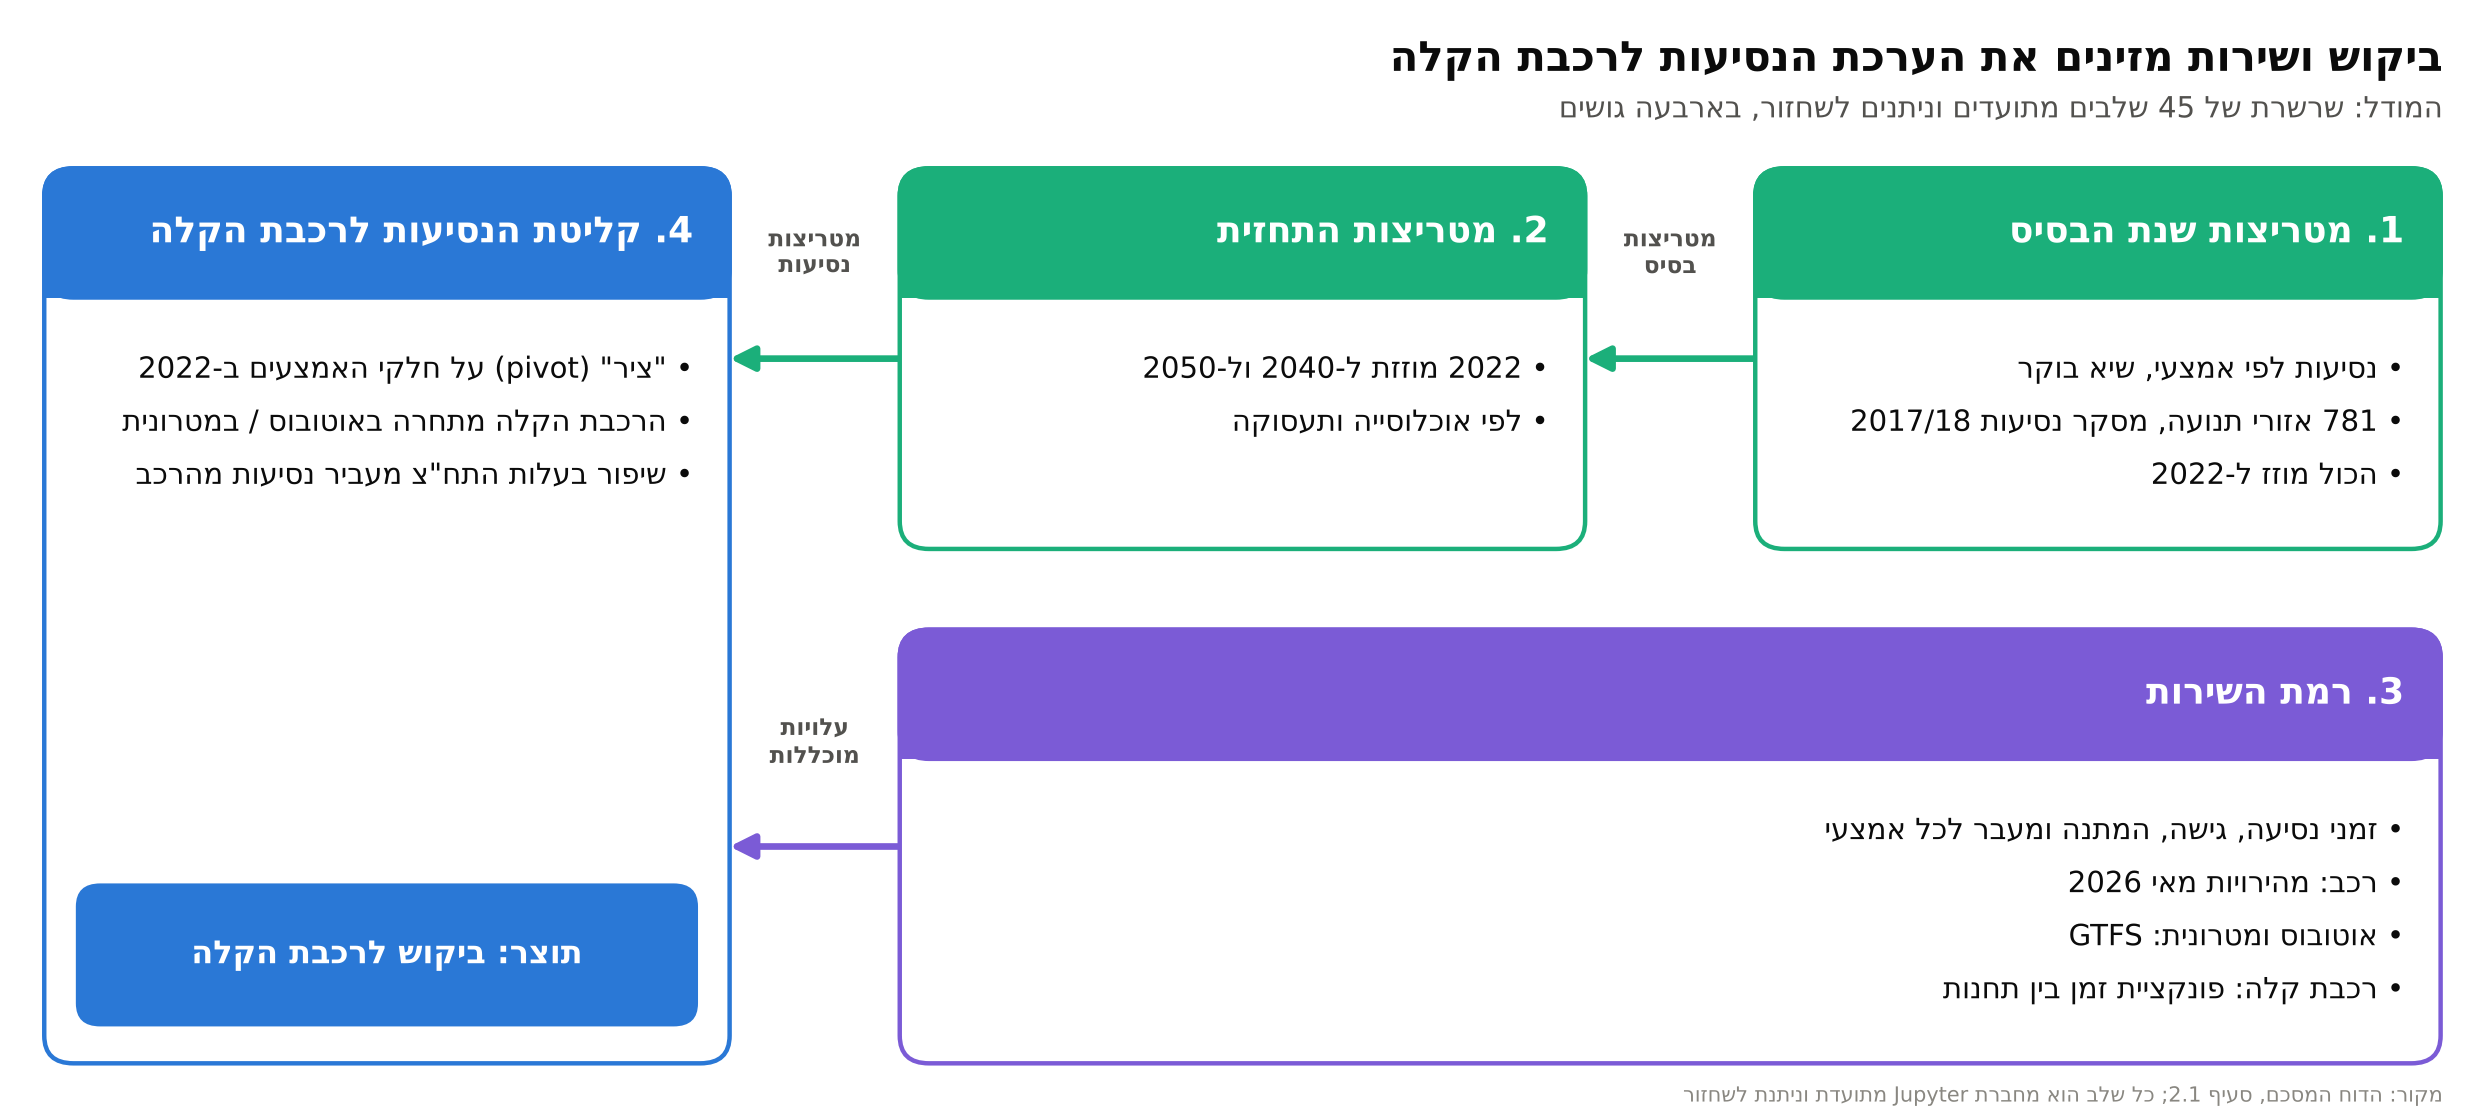
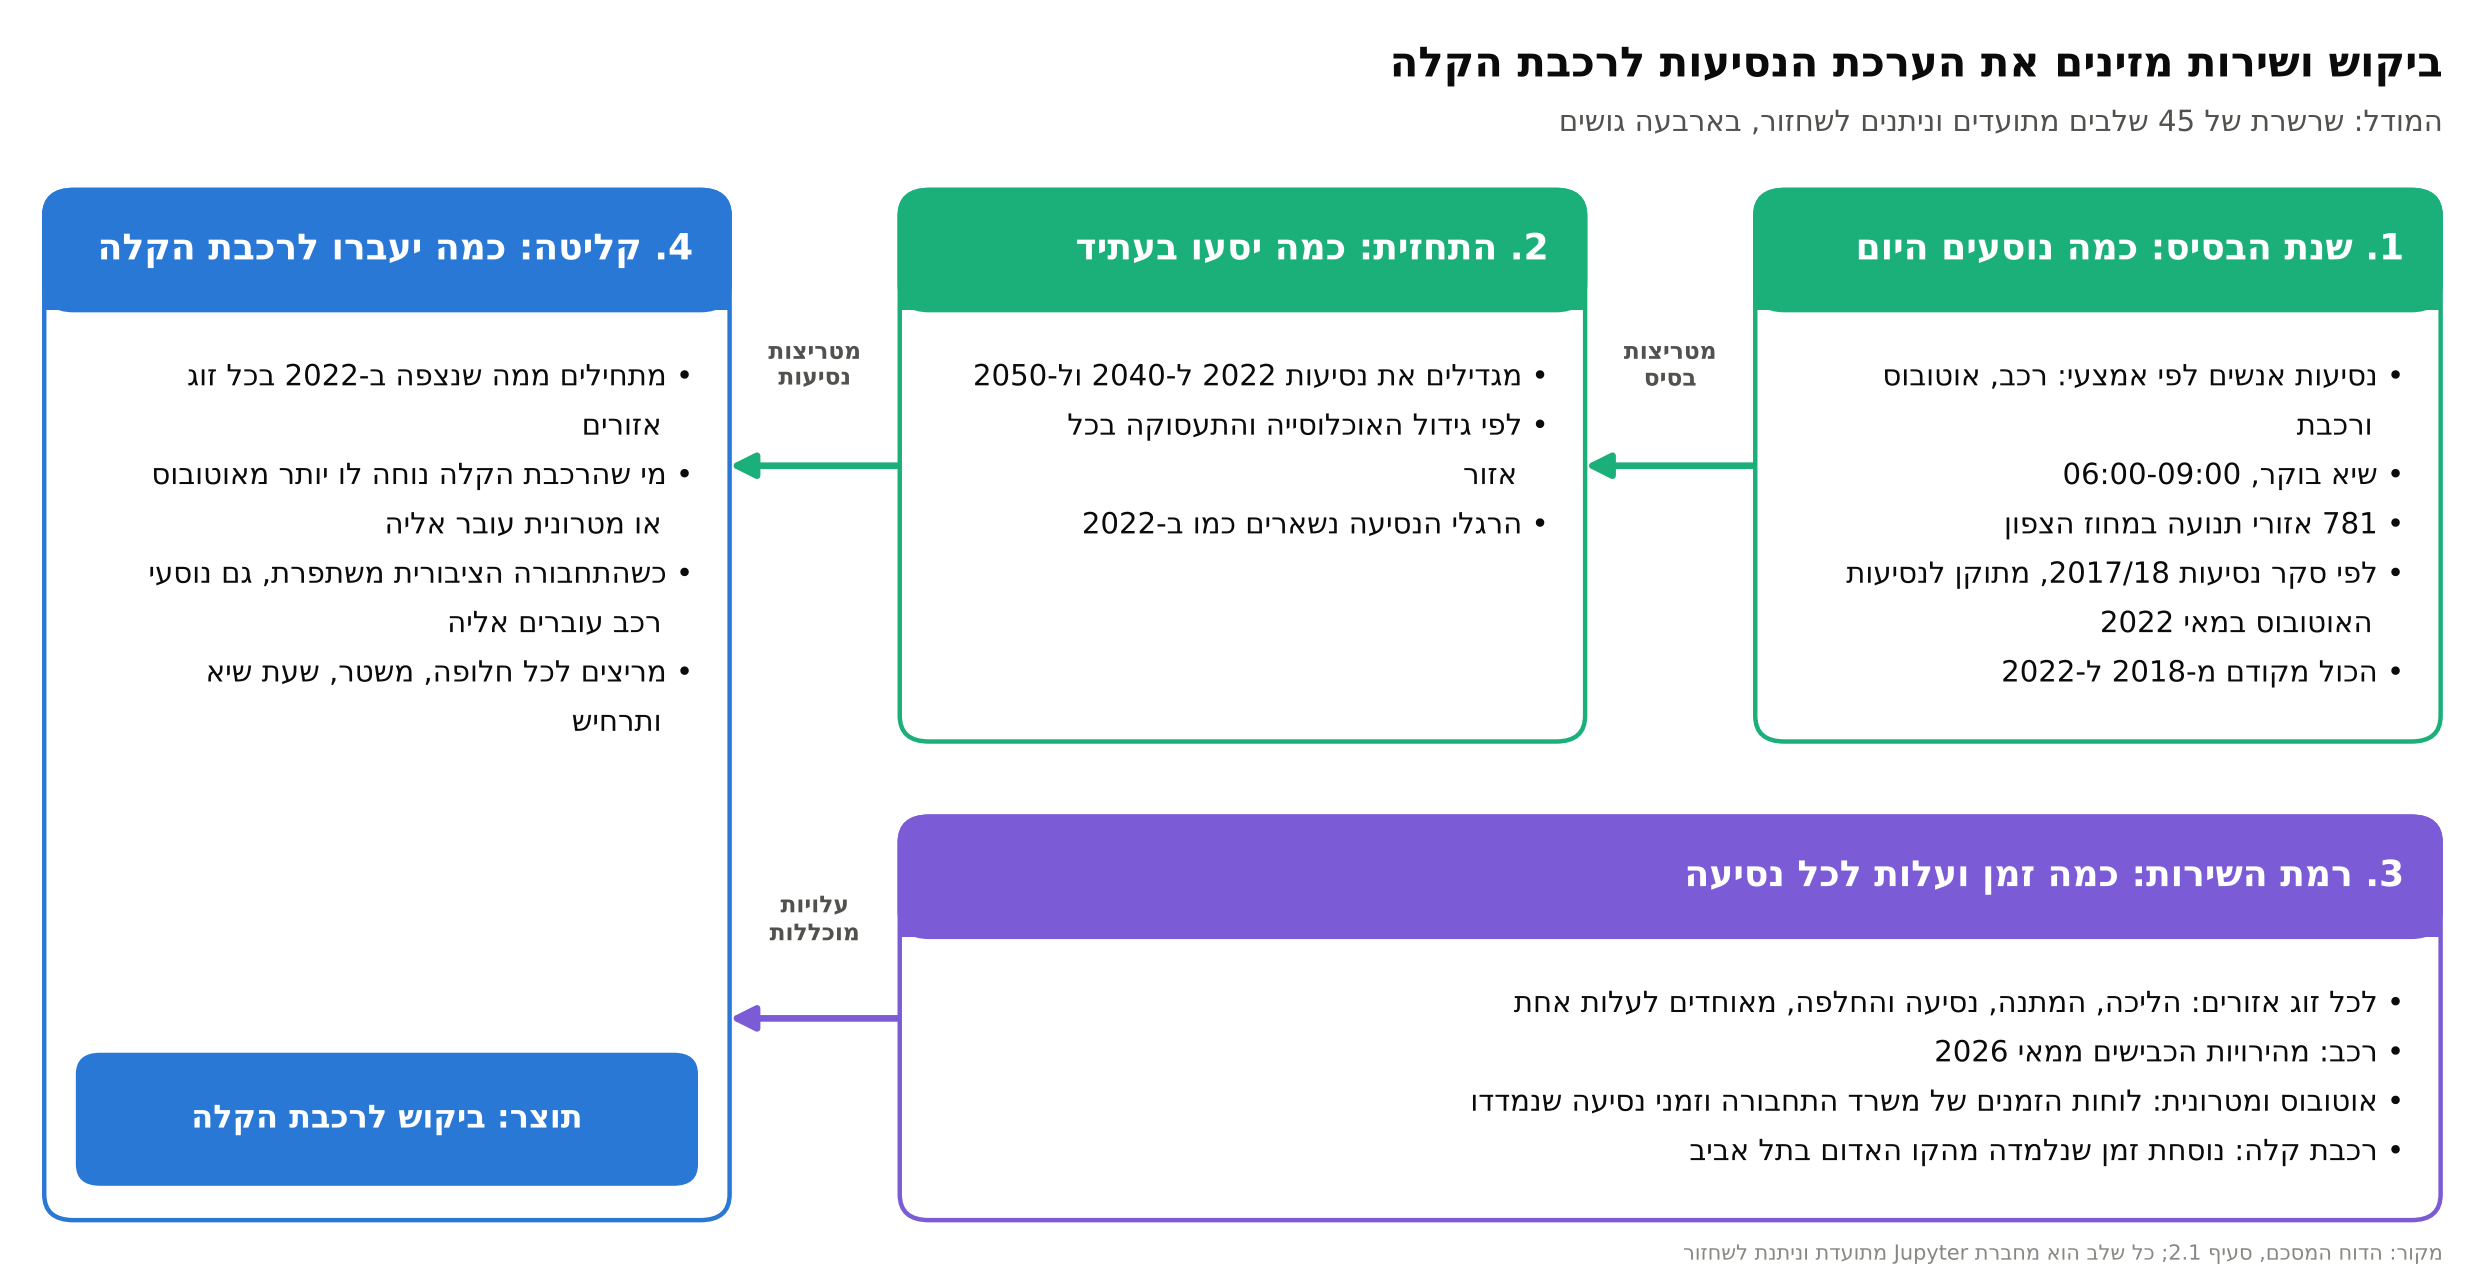
Fig 3: plain-Hebrew model-structure text
Claude-Session: https://claude.ai/code/session_01YMtsRtmFA5oisZptTurQGN

diff --git a/tools/build_report_figures.py b/tools/build_report_figures.py
@@ -93,22 +93,26 @@ from matplotlib.patches import FancyBboxPatch, FancyArrowPatch
 
 # ranges use a hyphen, not an en dash: an en dash splits the number run in right-to-left text and flips the range
 BLOCKS = {
-    'base': dict(color=S.AQUA, num='1', title='מטריצות שנת הבסיס', wrap=44, bullets=[
-        'נסיעות לפי אמצעי, שיא בוקר',
-        '781 אזורי תנועה, מסקר נסיעות 2017/18',
-        'הכול מוזז ל-2022']),
-    'forecast': dict(color=S.AQUA, num='2', title='מטריצות התחזית', wrap=44, bullets=[
-        '2022 מוזזת ל-2040 ול-2050',
-        'לפי אוכלוסייה ותעסוקה']),
-    'los': dict(color=S.PURPLE, num='3', title='רמת השירות', wrap=90, bullets=[
-        'זמני נסיעה, גישה, המתנה ומעבר לכל אמצעי',
-        'רכב: מהירויות מאי 2026',
-        'אוטובוס ומטרונית: GTFS',
-        'רכבת קלה: פונקציית זמן בין תחנות']),
-    'pivot': dict(color=S.BLUE, num='4', title='קליטת הנסיעות לרכבת הקלה', wrap=44, bullets=[
-        '"ציר" (pivot) על חלקי האמצעים ב-2022',
-        'הרכבת הקלה מתחרה באוטובוס / במטרונית',
-        'שיפור בעלות התח"צ מעביר נסיעות מהרכב']),
+    'base': dict(color=S.AQUA, num='1', title='שנת הבסיס: כמה נוסעים היום', wrap=37, bullets=[
+        'נסיעות אנשים לפי אמצעי: רכב, אוטובוס ורכבת',
+        'שיא בוקר, 06:00-09:00',
+        '781 אזורי תנועה במחוז הצפון',
+        'לפי סקר נסיעות 2017/18, מתוקן לנסיעות האוטובוס במאי 2022',
+        'הכול מקודם מ-2018 ל-2022']),
+    'forecast': dict(color=S.AQUA, num='2', title='התחזית: כמה יסעו בעתיד', wrap=37, bullets=[
+        'מגדילים את נסיעות 2022 ל-2040 ול-2050',
+        'לפי גידול האוכלוסייה והתעסוקה בכל אזור',
+        'הרגלי הנסיעה נשארים כמו ב-2022']),
+    'los': dict(color=S.PURPLE, num='3', title='רמת השירות: כמה זמן ועלות לכל נסיעה', wrap=100, bullets=[
+        'לכל זוג אזורים: הליכה, המתנה, נסיעה והחלפה, מאוחדים לעלות אחת',
+        'רכב: מהירויות הכבישים ממאי 2026',
+        'אוטובוס ומטרונית: לוחות הזמנים של משרד התחבורה וזמני נסיעה שנמדדו',
+        'רכבת קלה: נוסחת זמן שנלמדה מהקו האדום בתל אביב']),
+    'pivot': dict(color=S.BLUE, num='4', title='קליטה: כמה יעברו לרכבת הקלה', wrap=37, bullets=[
+        'מתחילים ממה שנצפה ב-2022 בכל זוג אזורים',
+        'מי שהרכבת הקלה נוחה לו יותר מאוטובוס או מטרונית עובר אליה',
+        'כשהתחבורה הציבורית משתפרת, גם נוסעי רכב עוברים אליה',
+        'מריצים לכל חלופה, משטר, שעת שיא ותרחיש']),
 }
 LINE_H, HEAD_H, PAD = 2.3, 5.6, 2.0
 
@@ -139,7 +143,7 @@ def arrow(ax, p0, p1, color):
     ax.add_patch(FancyArrowPatch(p0, p1, arrowstyle='-|>', mutation_scale=18, lw=2.4, color=color, zorder=1, shrinkA=0, shrinkB=0))
 
 
-fig = plt.figure(figsize=(12.4, 5.6)); ax = fig.add_axes([.01, .03, .98, .83]); ax.set_xlim(0, 100); ax.set_axis_off()
+fig = plt.figure(figsize=(12.4, 6.4)); ax = fig.add_axes([.01, .03, .98, .83]); ax.set_xlim(0, 100); ax.set_axis_off()
 WN, GAP = 28.2, 7.0; XR1 = 99.4; XR2 = XR1 - WN - GAP; XR4 = XR2 - WN - GAP
 h_top = max(block_h('base'), block_h('forecast')); h_low = block_h('los'); ROW_GAP = 3.5
 b1 = draw_block(ax, 'base', XR1, 59.5, WN, h_top); b2 = draw_block(ax, 'forecast', XR2, 59.5, WN, h_top)
